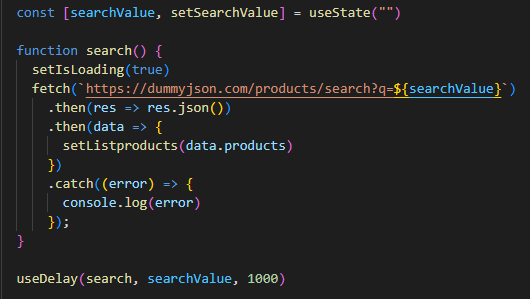
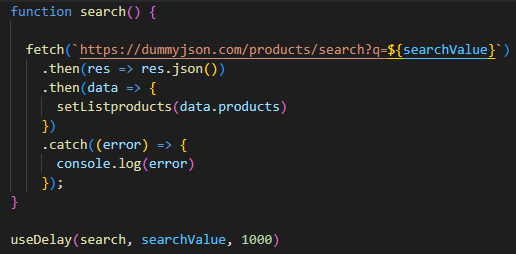
updated readme

Changed region(s): [[0.0, 0.0, 0.9922, 0.7717], [0.0, 0.9094, 0.5581, 0.9921], [0.0, 0.7717, 0.062, 0.8268]]

diff --git a/src/App.js b/src/App.js
@@ -8,20 +8,25 @@ function App() {
   const [listProducts, setListproducts] = useState([])
 
   const [searchValue, setSearchValue] = useState("")
-
+  
   function search() {
     setIsLoading(true)
     fetch(`https://dummyjson.com/products/search?q=${searchValue}`)
       .then(res => res.json())
       .then(data => {
         setListproducts(data.products)
+        setIsLoading(false)
       })
       .catch((error) => {
         console.log(error)
+        setIsLoading(false)
       });
   }
-
+  
   useDelay(search, searchValue, 1000)
+
+
+  
 
 
   return (
